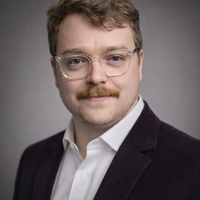
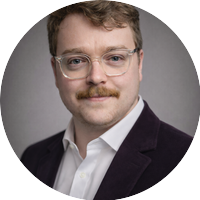
index update

diff --git a/about/index.html b/about/index.html
@@ -8,7 +8,7 @@ title: About
   <img src="{{ '/images/circle_me.png' | relative_url }}" alt="Christopher Dillon" class="header-image" />
   <div class="header-content">
     <h1>About Me</h1>
-    <p class="bio">Data scientist with a background in astrophysics, now building analytics capabilities across global retail and wholesale businesses.</p>
+    <p class="bio">Scientist from Derry. I like building things that automate problems away, and reading when I'm not.</p>
   </div>
 </div>
 
@@ -17,8 +17,8 @@ title: About
   <div class="section-label">Background</div>
 
   <article class="experience-item">
-    <p class="experience-description">I completed my astrophysics PhD (with biomedical applications) at Queen's University Belfast in 2022. Following this, I worked as a post-doctoral Research Fellow at Queen's, developing bespoke image feature recognition software for Randox Laboratories as a continuation of the biomedical applications I developed during my PhD.</p>
-    <p class="experience-description">I'm now the Global Lead Data Scientist at <a href="https://nexusbrands.com">Nexus Brands Group</a>, a group of 18 businesses selling and manufacturing professional brands across the beauty, tattoo, and pet grooming industries via B2B, D2C, and through both e-commerce and wholesale channels.</p>
+    <p class="experience-description">I'm from Derry, in the northwest of Ireland. I did my astrophysics PhD at Queen's University Belfast in 2022, then worked as a Research Fellow building image recognition software for Randox Laboratories.</p>
+    <p class="experience-description">Now I'm the Global Lead Data Scientist at <a href="https://nexusbrands.com">Nexus Brands Group</a>, building data systems and analytics across 18 businesses in the beauty, tattoo, and pet grooming industries. Different domain from stars, same satisfaction in solving problems.</p>
   </article>
 </section>
 
@@ -27,9 +27,8 @@ title: About
   <div class="section-label">Research</div>
 
   <article class="experience-item">
-    <p class="experience-description">My PhD project was <a href="https://pureadmin.qub.ac.uk/ws/portalfiles/portal/317087355/REDACTED_Thesis_Final_40099745_Christopher_Dillon.pdf">"Observations and Modelling of Intensity Time Series for Biomedical and Astrophysical Applications"</a>. A redacted version is available at that link.</p>
-    <p class="experience-description">I studied nanoflares: individually low-energy flare events (around a billionth that of a larger flare) that occur much more frequently. Theoretically, hundreds or even thousands of nanoflares could be occurring per second over an entire stellar surface. This means nanoflares are capable of being a major component of the solar energy budget and are often touted as a possible answer to the coronal heating mystery.</p>
-    <p class="experience-description">Due to their individually low energy, nanoflares aren't possible to observe directly. My work involved statistical studies of quiet stellar (and sometimes solar) data to extract any underlying signal due to the multitude of nanoflares therein. These signals were then compared to simulations to constrain the nanoflaring parameters in the sun and other stars. I also adapted these techniques to analyse and enhance low-intensity signals for use in biomarker imaging applications with Randox Laboratories.</p>
+    <p class="experience-description">My PhD was on <a href="https://pureadmin.qub.ac.uk/ws/portalfiles/portal/317087355/REDACTED_Thesis_Final_40099745_Christopher_Dillon.pdf">nanoflares</a> - tiny explosions on the sun, about a billionth the energy of a normal flare. Individually insignificant, but hundreds or thousands might be happening every second across a star's surface. That adds up, and they might explain why the sun's atmosphere is so mysteriously hot.</p>
+    <p class="experience-description">You can't see them directly, so I built simulations and statistical models to extract their signals from noisy data. Later I adapted those techniques for biomedical imaging - finding faint signals in noise turns out to be useful whether you're looking at stars or cells.</p>
   </article>
 </section>
 
@@ -67,8 +66,8 @@ title: About
   <div class="section-label">Personal</div>
 
   <article class="experience-item">
-    <p class="experience-description">I enjoy developing data analysis code, especially at the intersection of industrial and academic applications. In my spare time I tinker with computers and write bits of code to automate tasks.</p>
-    <p class="experience-description">Outside of work, I can usually be found reading. Check out my <a href="https://www.goodreads.com/user/show/17038700-chris-dillon">Goodreads</a> to see what I've been up to.</p>
+    <p class="experience-description">I like writing code that solves problems - the kind of thing where you build something once and it saves you hours forever after. Most of my spare time goes into little automation projects or tinkering with whatever's caught my interest.</p>
+    <p class="experience-description">When I'm not at a keyboard, I'm usually reading. Check out my <a href="https://www.goodreads.com/user/show/17038700-chris-dillon">Goodreads</a> to see what's on the pile.</p>
   </article>
 </section>
 
